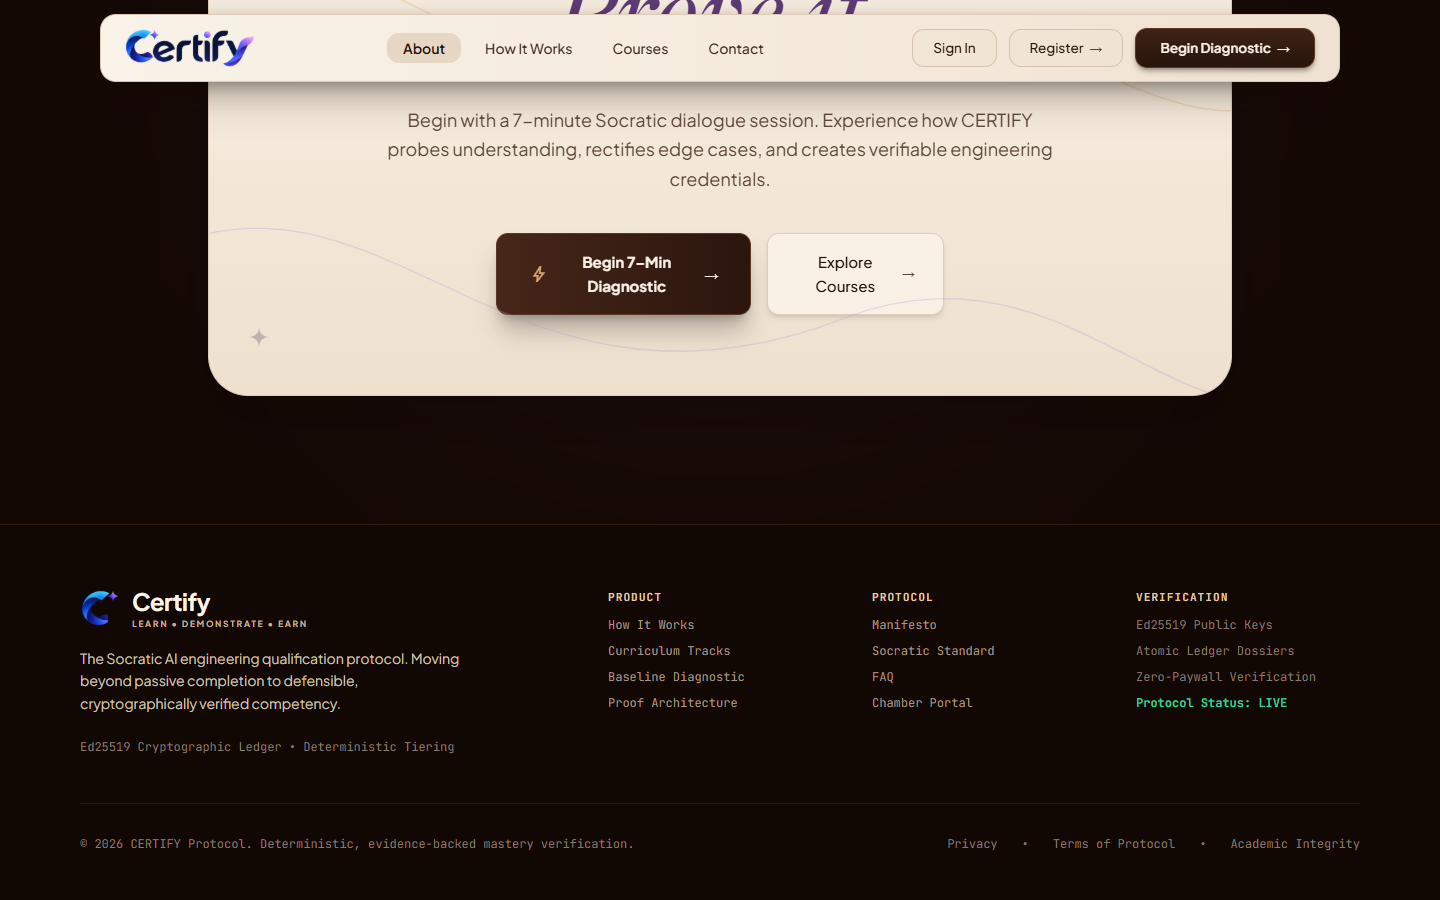
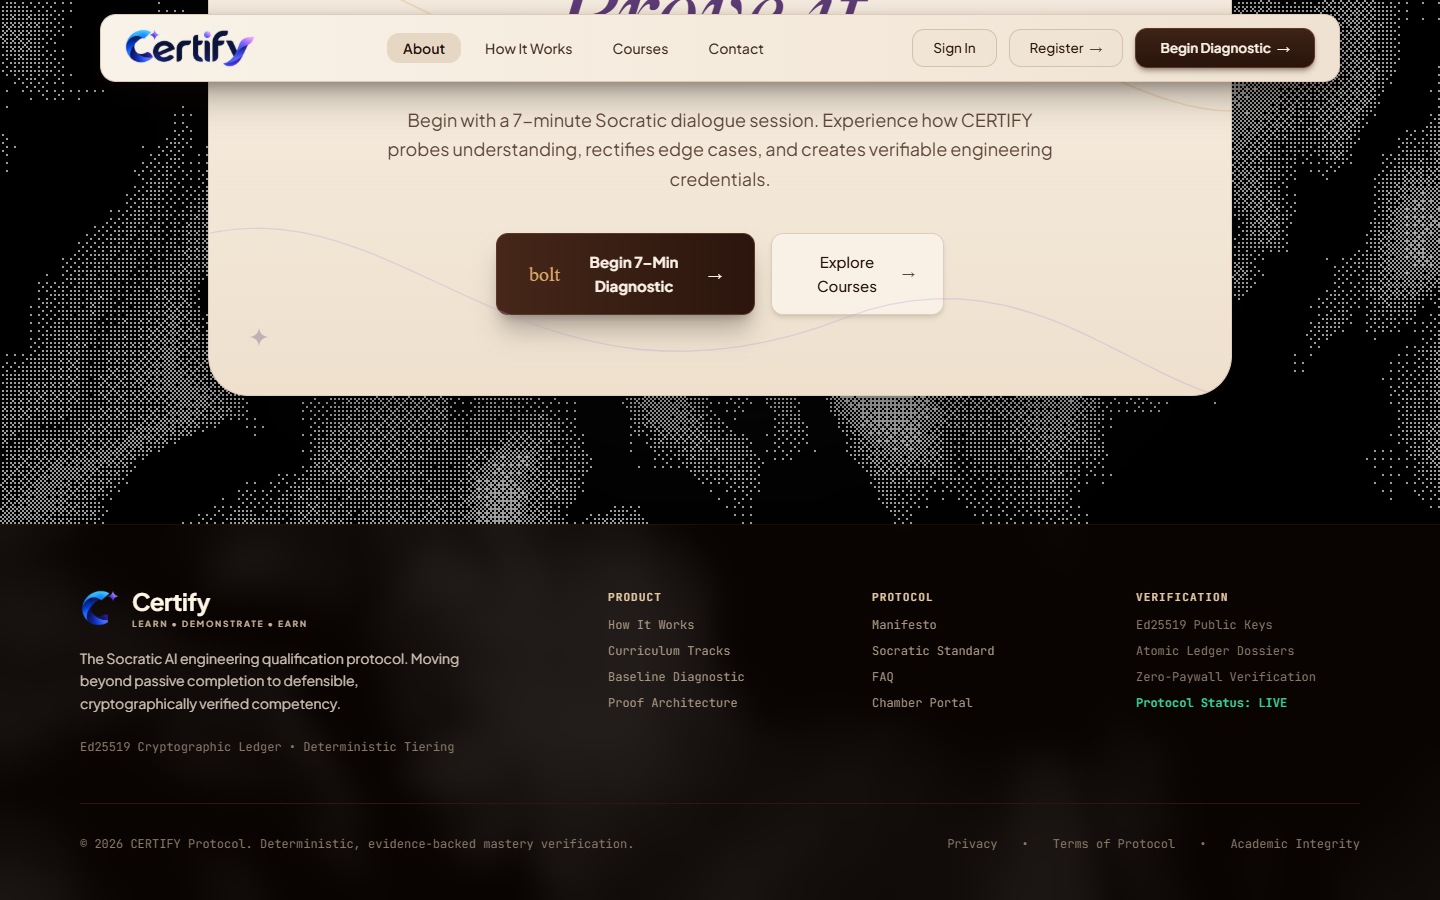
fix(landing): activate live continuous Dither wave motion and full-page visibility

diff --git a/frontend/src/components/landing/Dither.tsx b/frontend/src/components/landing/Dither.tsx
@@ -219,36 +219,60 @@ function DitheredWaves({
     if (res.x !== w || res.y !== h) {
       res.set(w, h);
     }
+    if (mesh.current) {
+      const mat = mesh.current.material as THREE.ShaderMaterial;
+      if (mat && mat.uniforms && mat.uniforms.resolution) {
+        mat.uniforms.resolution.value.set(w, h);
+      }
+    }
   }, [size, gl]);
 
   const prevColor = useRef([...waveColor]);
   const prevBackgroundColor = useRef([...backgroundColor]);
   useFrame(({ clock }) => {
-    const u = waveUniformsRef.current;
+    const elapsedTime = clock.getElapsedTime();
+    const uRef = waveUniformsRef.current;
+    const mat = mesh.current ? (mesh.current.material as THREE.ShaderMaterial) : null;
+    const uMat = mat && mat.uniforms ? mat.uniforms : null;
 
     if (!disableAnimation) {
-      u.time.value = clock.getElapsedTime();
+      uRef.time.value = elapsedTime;
+      if (uMat && uMat.time) {
+        uMat.time.value = elapsedTime;
+      }
     }
 
-    if (u.waveSpeed.value !== waveSpeed) u.waveSpeed.value = waveSpeed;
-    if (u.waveFrequency.value !== waveFrequency) u.waveFrequency.value = waveFrequency;
-    if (u.waveAmplitude.value !== waveAmplitude) u.waveAmplitude.value = waveAmplitude;
+    if (uRef.waveSpeed.value !== waveSpeed) uRef.waveSpeed.value = waveSpeed;
+    if (uMat && uMat.waveSpeed && uMat.waveSpeed.value !== waveSpeed) uMat.waveSpeed.value = waveSpeed;
+
+    if (uRef.waveFrequency.value !== waveFrequency) uRef.waveFrequency.value = waveFrequency;
+    if (uMat && uMat.waveFrequency && uMat.waveFrequency.value !== waveFrequency) uMat.waveFrequency.value = waveFrequency;
+
+    if (uRef.waveAmplitude.value !== waveAmplitude) uRef.waveAmplitude.value = waveAmplitude;
+    if (uMat && uMat.waveAmplitude && uMat.waveAmplitude.value !== waveAmplitude) uMat.waveAmplitude.value = waveAmplitude;
 
     if (!prevColor.current.every((v, i) => v === waveColor[i])) {
-      u.waveColor.value.set(...waveColor);
+      uRef.waveColor.value.set(...waveColor);
+      if (uMat && uMat.waveColor) uMat.waveColor.value.set(...waveColor);
       prevColor.current = [...waveColor];
     }
 
     if (!prevBackgroundColor.current.every((v, i) => v === backgroundColor[i])) {
-      u.backgroundColor.value.set(...backgroundColor);
+      uRef.backgroundColor.value.set(...backgroundColor);
+      if (uMat && uMat.backgroundColor) uMat.backgroundColor.value.set(...backgroundColor);
       prevBackgroundColor.current = [...backgroundColor];
     }
 
-    u.enableMouseInteraction.value = enableMouseInteraction ? 1 : 0;
-    u.mouseRadius.value = mouseRadius;
+    const mouseVal = enableMouseInteraction ? 1 : 0;
+    uRef.enableMouseInteraction.value = mouseVal;
+    if (uMat && uMat.enableMouseInteraction) uMat.enableMouseInteraction.value = mouseVal;
+
+    uRef.mouseRadius.value = mouseRadius;
+    if (uMat && uMat.mouseRadius) uMat.mouseRadius.value = mouseRadius;
 
     if (enableMouseInteraction) {
-      u.mousePos.value.copy(mouseRef.current);
+      uRef.mousePos.value.copy(mouseRef.current);
+      if (uMat && uMat.mousePos) uMat.mousePos.value.copy(mouseRef.current);
     }
   });
 

diff --git a/frontend/src/components/LandingPageView.tsx b/frontend/src/components/LandingPageView.tsx
@@ -36,7 +36,7 @@ export const LandingPageView: React.FC<LandingPageViewProps> = ({
   useLenis(true);
 
   return (
-    <div className="relative min-h-screen bg-[#150A05] font-['Plus_Jakarta_Sans',sans-serif] text-[#EDE4D8] antialiased selection:bg-[#E6CAA4] selection:text-[#2A170E] overflow-x-hidden">
+    <div className="relative min-h-screen bg-black font-['Plus_Jakarta_Sans',sans-serif] text-[#EDE4D8] antialiased selection:bg-[#E6CAA4] selection:text-[#2A170E] overflow-x-hidden">
       {/* Full-Page React Bits Dither Background (Fixed Canvas, z-0) */}
       <div className="fixed inset-0 z-0 pointer-events-none w-screen h-screen">
         <Dither
@@ -46,6 +46,7 @@ export const LandingPageView: React.FC<LandingPageViewProps> = ({
           enableMouseInteraction={true}
           mouseRadius={0.3}
           colorNum={4}
+          pixelSize={2}
           waveAmplitude={0.3}
           waveFrequency={3}
           waveSpeed={0.05}

diff --git a/frontend/src/components/landing/FinalCtaSection.tsx b/frontend/src/components/landing/FinalCtaSection.tsx
@@ -15,7 +15,7 @@ export const FinalCtaSection: React.FC<FinalCtaSectionProps> = ({
   const secondaryMagneticRef = useMagnetic<HTMLButtonElement>({ strength: 0.22 });
 
   return (
-    <section className="relative py-32 px-4 sm:px-6 lg:px-12 bg-[#140804] border-t border-[#3E2416] overflow-hidden">
+    <section className="relative py-32 px-4 sm:px-6 lg:px-12 bg-transparent border-t border-[#3E2416]/40 overflow-hidden">
       {/* Dramatic Ambient Light Beams */}
       <div
         className="absolute top-1/2 left-1/2 -translate-x-1/2 -translate-y-1/2 w-[900px] h-[550px] pointer-events-none rounded-full blur-[150px] opacity-25"

diff --git a/frontend/src/components/landing/FlagshipCourseSection.tsx b/frontend/src/components/landing/FlagshipCourseSection.tsx
@@ -47,7 +47,7 @@ export const FlagshipCourseSection: React.FC<FlagshipCourseSectionProps> = ({
   const [selectedMod, setSelectedMod] = useState(0);
 
   return (
-    <section className="relative py-24 px-4 sm:px-6 lg:px-12 bg-[#1A0E08] border-t border-[#3E2416] overflow-hidden">
+    <section className="relative py-24 px-4 sm:px-6 lg:px-12 bg-transparent border-t border-[#3E2416]/40 overflow-hidden">
       <div className="relative z-10 max-w-7xl mx-auto">
         <div className="grid grid-cols-1 lg:grid-cols-12 gap-10 items-center">
           {/* Left Column: Flagship Overview */}

diff --git a/frontend/src/components/landing/DraggableCurriculumCarousel.tsx b/frontend/src/components/landing/DraggableCurriculumCarousel.tsx
@@ -138,7 +138,7 @@ export const DraggableCurriculumCarousel: React.FC<DraggableCurriculumCarouselPr
   };
 
   return (
-    <section id="courses" className="relative py-24 px-4 sm:px-6 lg:px-12 bg-[#170C06] border-t border-[#3E2416] overflow-hidden">
+    <section id="courses" className="relative py-24 px-4 sm:px-6 lg:px-12 bg-transparent border-t border-[#3E2416]/40 overflow-hidden">
       <div className="relative z-10 max-w-7xl mx-auto">
         {/* Header with Navigation Controls */}
         <div className="flex flex-col md:flex-row md:items-end justify-between mb-12 gap-6">

diff --git a/frontend/src/components/landing/LandingFooter.tsx b/frontend/src/components/landing/LandingFooter.tsx
@@ -12,7 +12,7 @@ export const LandingFooter: React.FC<LandingFooterProps> = ({
   onSignIn,
 }) => {
   return (
-    <footer className="relative bg-[#110703] border-t border-[#331B10] pt-16 pb-12 px-6 lg:px-12 text-[#A89682]">
+    <footer className="relative bg-[#0B0503]/80 backdrop-blur-md border-t border-[#331B10]/40 pt-16 pb-12 px-6 lg:px-12 text-[#A89682]">
       <div className="max-w-7xl mx-auto">
         <div className="grid grid-cols-1 md:grid-cols-2 lg:grid-cols-5 gap-10 pb-12 border-b border-[#2C180E]">
           {/* Brand & Manifesto Column (2 cols on lg) */}

diff --git a/frontend/src/components/landing/AiShowcaseSection.tsx b/frontend/src/components/landing/AiShowcaseSection.tsx
@@ -91,7 +91,7 @@ export const AiShowcaseSection: React.FC = () => {
   }, [currentStep.aiMessage]);
 
   return (
-    <section className="relative py-24 px-4 sm:px-6 lg:px-12 bg-[#1B0E08] border-t border-[#3E2416] overflow-hidden">
+    <section className="relative py-24 px-4 sm:px-6 lg:px-12 bg-transparent border-t border-[#3E2416]/40 overflow-hidden">
       {/* Background radial glow */}
       <div
         className="absolute top-1/2 left-1/3 -translate-x-1/2 -translate-y-1/2 w-[700px] h-[500px] pointer-events-none rounded-full blur-[140px] opacity-20"

diff --git a/frontend/src/components/landing/TestimonialsSection.tsx b/frontend/src/components/landing/TestimonialsSection.tsx
@@ -55,7 +55,7 @@ export const TestimonialsSection: React.FC = () => {
   const current = EXPERIENCE_REPORTS[activeIdx];
 
   return (
-    <section className="relative py-24 px-4 sm:px-6 lg:px-12 bg-[#170C06] border-t border-[#3E2416] overflow-hidden">
+    <section className="relative py-24 px-4 sm:px-6 lg:px-12 bg-transparent border-t border-[#3E2416]/40 overflow-hidden">
       <div className="relative z-10 max-w-5xl mx-auto">
         {/* Header */}
         <div className="text-center max-w-3xl mx-auto mb-14">

diff --git a/frontend/src/components/landing/ChooseYourPathSection.tsx b/frontend/src/components/landing/ChooseYourPathSection.tsx
@@ -13,7 +13,7 @@ export const ChooseYourPathSection: React.FC<ChooseYourPathSectionProps> = ({
   onSignIn,
 }) => {
   return (
-    <section className="relative py-24 px-4 sm:px-6 lg:px-12 bg-[#1A0D07] border-t border-[#3E2416] overflow-hidden">
+    <section className="relative py-24 px-4 sm:px-6 lg:px-12 bg-transparent border-t border-[#3E2416]/40 overflow-hidden">
       <div className="relative z-10 max-w-7xl mx-auto">
         {/* Header */}
         <div className="text-center max-w-3xl mx-auto mb-16">

diff --git a/frontend/src/components/landing/AnimatedStatsSection.tsx b/frontend/src/components/landing/AnimatedStatsSection.tsx
@@ -81,7 +81,7 @@ export const AnimatedStatsSection: React.FC = () => {
   return (
     <section
       ref={containerRef}
-      className="relative py-20 px-4 sm:px-6 lg:px-12 bg-[#1A0E08] border-t border-[#3E2416] overflow-hidden"
+      className="relative py-20 px-4 sm:px-6 lg:px-12 bg-transparent border-t border-[#3E2416]/40 overflow-hidden"
     >
       <div className="relative z-10 max-w-7xl mx-auto">
         <div className="grid grid-cols-1 sm:grid-cols-2 lg:grid-cols-4 gap-8">

diff --git a/frontend/src/components/landing/ManifestoSection.tsx b/frontend/src/components/landing/ManifestoSection.tsx
@@ -91,7 +91,7 @@ export const ManifestoSection: React.FC = () => {
     <section
       id="manifesto"
       ref={sectionRef}
-      className="relative min-h-screen flex items-center justify-center bg-[#1D0E07] px-6 lg:px-12 py-20 overflow-hidden border-t border-[#3E2416]"
+      className="relative min-h-screen flex items-center justify-center bg-transparent px-6 lg:px-12 py-20 overflow-hidden border-t border-[#3E2416]/40"
     >
       {/* Background ambient lighting */}
       <div

diff --git a/frontend/src/components/landing/FaqSection.tsx b/frontend/src/components/landing/FaqSection.tsx
@@ -65,7 +65,7 @@ export const FaqSection: React.FC = () => {
   };
 
   return (
-    <section id="faq" className="relative py-24 px-4 sm:px-6 lg:px-12 bg-[#170C06] border-t border-[#3E2416] overflow-hidden">
+    <section id="faq" className="relative py-24 px-4 sm:px-6 lg:px-12 bg-transparent border-t border-[#3E2416]/40 overflow-hidden">
       <div className="relative z-10 max-w-4xl mx-auto">
         {/* Header */}
         <div className="text-center max-w-3xl mx-auto mb-16">
